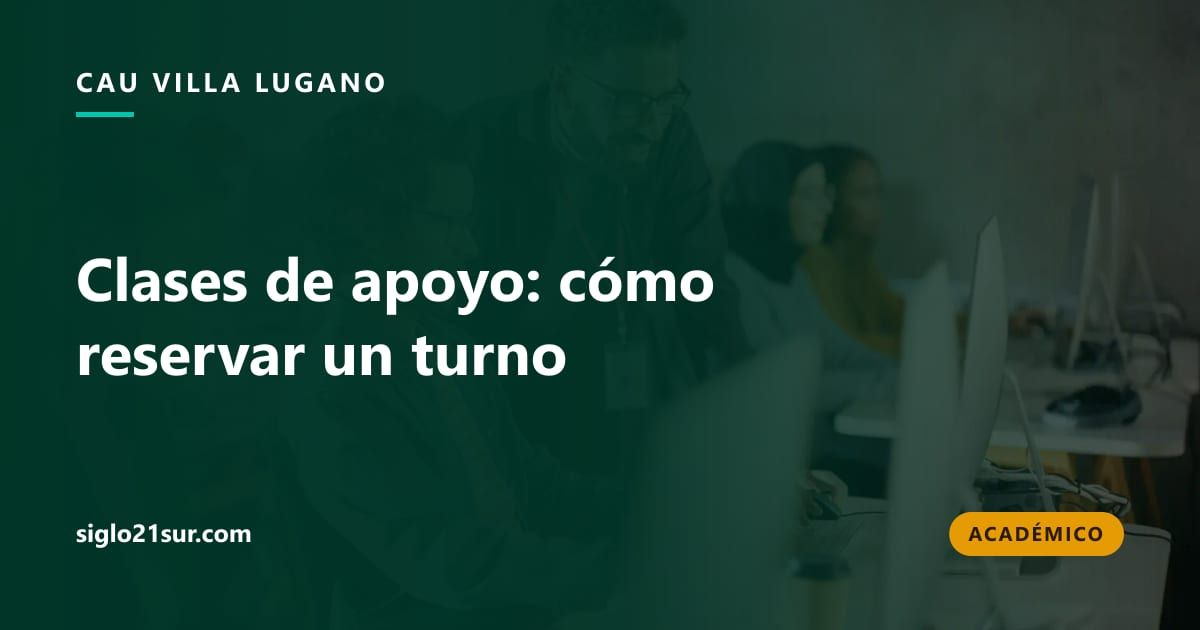
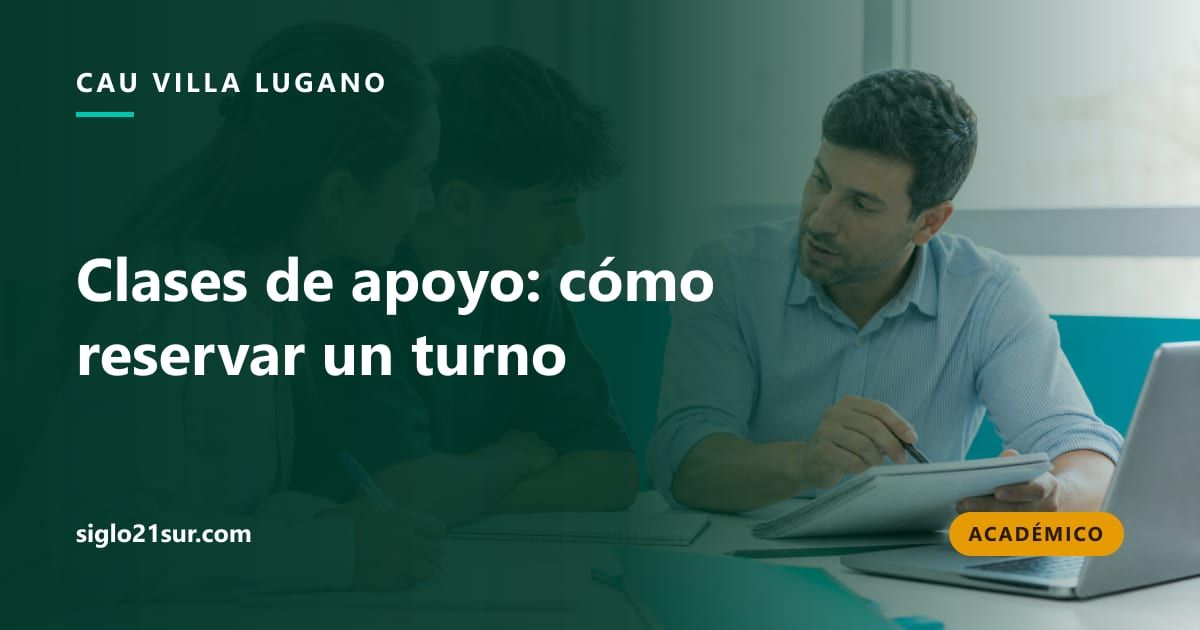
Renueva imágenes de novedades

diff --git a/referencias/2026-08-28-imagenes-novedades.md b/referencias/2026-08-28-imagenes-novedades.md
@@ -1,0 +1,3 @@
+# Imágenes de novedades
+
+No se usaron enlaces externos. Las cinco fotografías se generaron específicamente para las tarjetas del sitio, sin texto ni marcas incorporadas.
